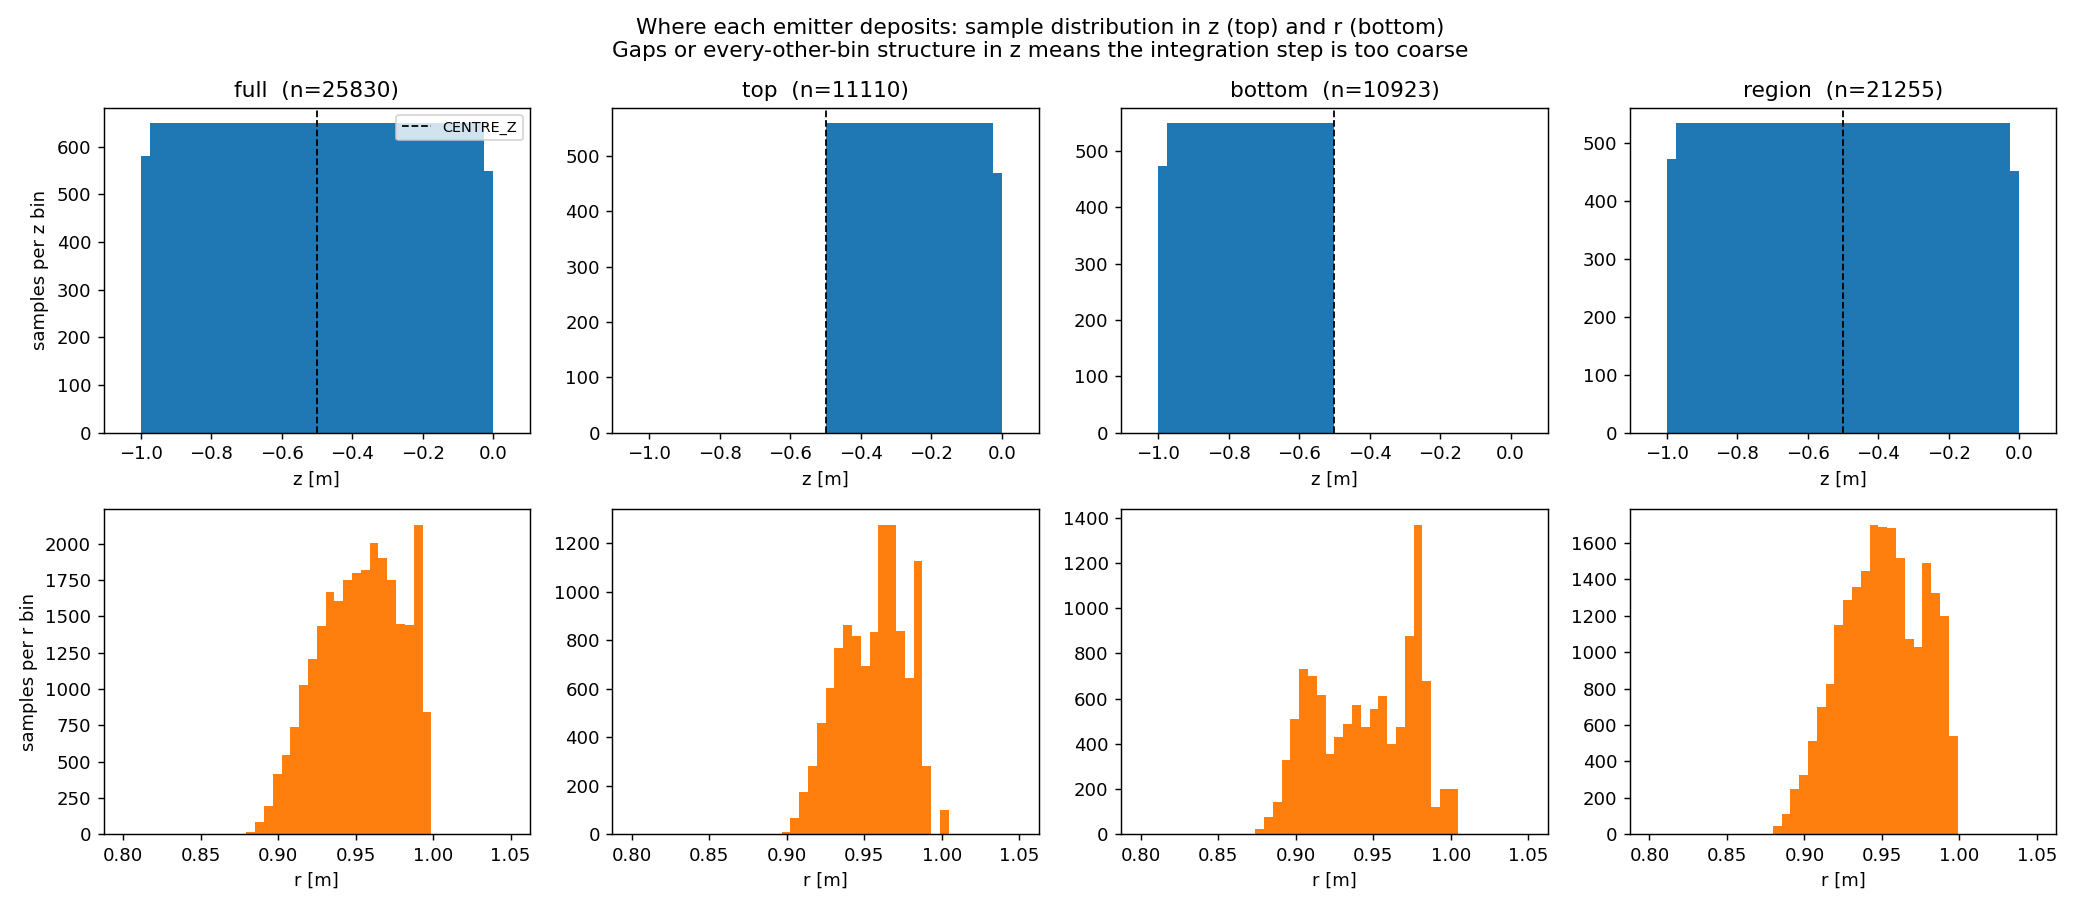
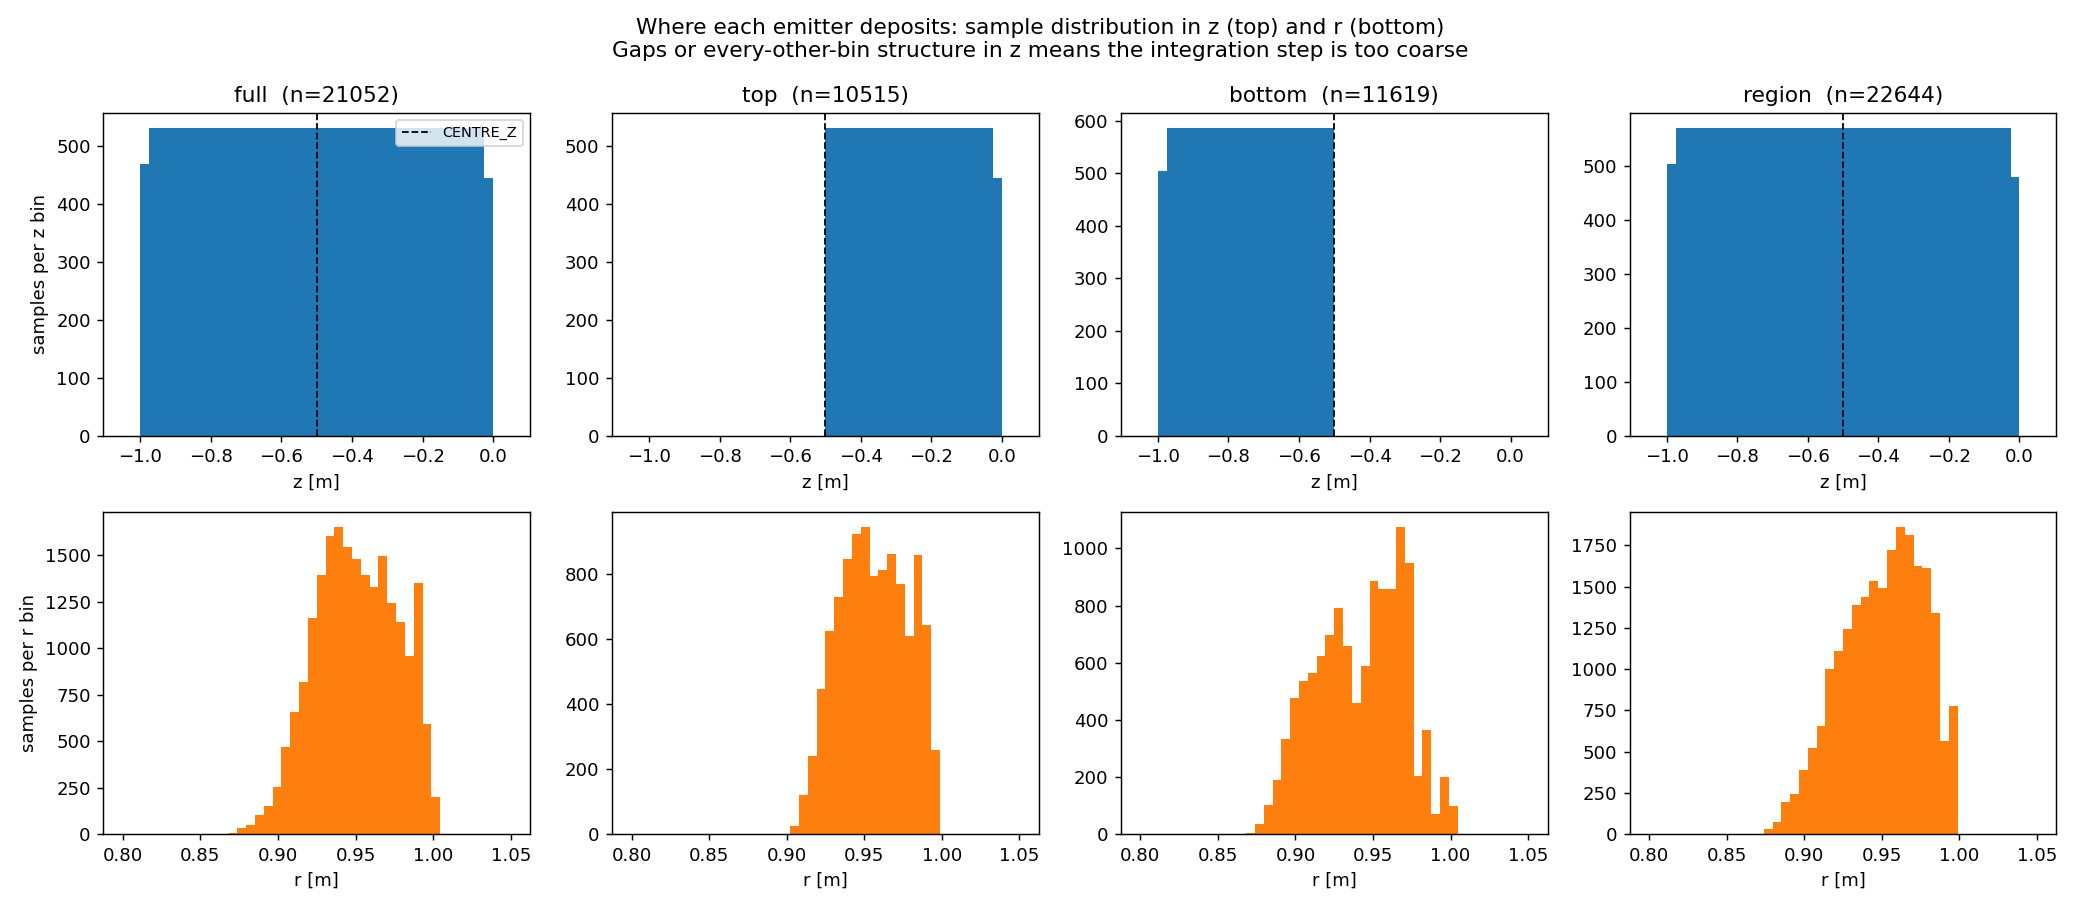
Some minor fixes

diff --git a/testingScripts/multiplePhiSolverTester.py b/testingScripts/multiplePhiSolverTester.py
@@ -1,3 +1,11 @@
+# multiplePhiSolverTester.py
+"""
+This was written to support the change in how radDists are created. Now
+they will have a list of observations for each channel, each with a corresponding
+observed_phi_loc list of the same length. This script just creates the normal radDist
+and splits each observation in half, for testing purposes.
+"""
+
 # solverTester.py
 """
 This program was written to test out the emis3D solver routine. The main point
@@ -15,6 +23,7 @@ import os
 import sys
 
 sys.path.append(os.path.abspath(os.path.join(os.path.dirname(__file__), "..")))
+
 import matplotlib.pyplot as plt
 import numpy as np
 import main.Util_radDist as Util_radDist
@@ -22,8 +31,8 @@ from main.Globals import *
 from main.Tokamak import Tokamak
 from main.Util import config_loader
 from raysect.core import Point2D
-import main.Emis3D as Emis3D
-from main.Util_emis3D import residual, scale_exp
+from main.Emis3D import Emis3D
+from main.Util_emis3D import residual
 
 evalTime = 2120.6
 
@@ -84,13 +93,10 @@ def pellet_initial_parameters(csp=False):
 # Step 1: Create a radDist
 # ------------------------------------------------------------------------------
 # ------------------------------------------------------------------------------
-
 tokamakName = "DIII-D"
 configFileName = "elongatedRing_config.yaml"  # "sqaureTube_config.yaml"  # "elongatedRing_config.yaml"  # "helical_config.yaml"  #
-sigma_z = 2.0
-sigma_R = 0.05
-rotationAngle = 0.0
-rzvalues = [2.055, 0.414]
+
+rzvalues = [2.029, 0.409]
 # --- Group the bolometers
 bolometerNames = [
     ["SX90PF_UP", "SX90PF_DOWN"],
@@ -124,16 +130,18 @@ rzArray = Util_radDist.callRZGridTokamak(
 # --- Update the configuration file
 rD = None
 if rzArray is not None:
-    rzArray[0] = [rzvalues[0], rzvalues[1]]
-    config["sigma_R"] = sigma_R
-    config["sigma_z"] = sigma_z
-    config["rotationAngle"] = rotationAngle
-    config["saveRunsDirectoryName"] = "solverTesting"
-    arg_list = [(val, config) for val in rzArray]
-    arg_list = arg_list[0]
+    # --- Update the configuration file
+    rzArray = np.array([rzvalues[0], rzvalues[1]])
 
-    # --- Decrease the number of sampling points used, to speed up the process
-    arg_list[1]["BOLOMETER_PROPS"] = {"pixelSamples": 100, "numProcessors": 1}
+    if "sigma_R_vals" in config:
+        config["sigma_R"] = config["sigma_R_vals"][0]
+    if "sigma_z_vals" in config:
+        config["sigma_z"] = config["sigma_z_vals"][0]
+    if "rotationAngles" in config:
+        config["rotationAngle"] = config["rotationAngles"][0]
+
+    config["saveRunsDirectoryName"] = "solverTesting"
+    arg_list = (rzArray, config)
 
     # --- Delete old radDist directory if it exists
     radDist_dir = os.path.join(
@@ -147,14 +155,44 @@ if rzArray is not None:
     # --- Create the radDist
     if config["distType"] == "Helical":
         rD = Util_radDist.radDist_Helical_parallel(arg_list, return_result=True)
+    elif config["distType"] == "HelicalRing":
+        rD = Util_radDist.radDist_HelicalRing_parallel(arg_list, return_result=True)
     elif config["distType"] == "ElongatedRing":
         rD = Util_radDist.radDist_ElongatedRing_parallel(arg_list, return_result=True)
     elif config["distType"] == "SquareTube":
         rD = Util_radDist.radDist_SquareTube_parallel(arg_list, return_result=True)
     else:
         raise RuntimeError(
-            "Please have 'elongatedRing', 'helical', or 'SqureTube' in the configFileName"
+            "Please have 'elongatedRing', 'helical', 'HelicalRing', or 'SqureTube' in the configFileName"
         )
+
+    # --- Split the observations in two
+    if rD is not None:
+        for bolo_ in rD.data["Radiance"]["elongatedRing"]:
+            original_list = rD.data["Radiance"]["elongatedRing"][bolo_]
+            halved_pairs = [
+                [sublist[0] / 2, sublist[0] / 2] for sublist in original_list
+            ]
+            rD.data["Radiance"]["elongatedRing"][bolo_] = halved_pairs
+
+        for bolo_ in rD.data["Radiance_error"]["elongatedRing"]:
+            original_list = rD.data["Radiance_error"]["elongatedRing"][bolo_]
+            halved_pairs = [
+                [sublist[0] / 2, sublist[0] / 2] for sublist in original_list
+            ]
+            rD.data["Radiance_error"]["elongatedRing"][bolo_] = halved_pairs
+
+    # --- Split the observed phi location in two
+    if rD is not None:
+        for bolo_ in rD.data["observed_phi_loc"]["elongatedRing"]:
+            original_list = rD.data["observed_phi_loc"]["elongatedRing"][bolo_]
+            pairs_list = [[sublist[0], sublist[0]] for sublist in original_list]
+            rD.data["observed_phi_loc"]["elongatedRing"][bolo_] = pairs_list
+
+    # --- Save the new radDist with a new z location
+    if rD is not None:
+        # rD.info["startZ"] = 0.42 # un-comment to save the split radDist with a different name
+        rD.saveRadDist()
 
 
 # ------------------------------------------------------------------------------
@@ -162,16 +200,17 @@ if rzArray is not None:
 # Step 2: Load the data in emis3D, create synthetic signal based off known parameters
 # ------------------------------------------------------------------------------
 # ------------------------------------------------------------------------------
-t = Emis3D.Emis3D(
-    tokamakName="DIII-D", runConfigName="solverTesting_runConfig.yaml", initialize=True
+t = Emis3D(
+    tokamakName="DIII-D",
+    runConfigName="solverTesting_runConfig.yaml",
+    initialize=True,
 )
+
 if t.info is not None:
     t.info["radDistDirectories"] = ["solverTesting"]
 
-
 # --- Going through t._perform_fits()
 t._prepare_fits(evalTime=evalTime, crossCalib=False)
-
 
 # --- Going through t._minimize_radDists()
 ii = 0
@@ -179,7 +218,6 @@ ii = 0
 data_dict = t.fitData[evalTime]
 synth_dict = t.fits[evalTime][ii]["synthetic_dict"]
 pars = t.fits[evalTime][ii]["parameters"]
-
 
 if t.info is not None:
     scale_def = t.info["scale_def"]
@@ -229,17 +267,15 @@ del t
 # ------------------------------------------------------------------------------
 res_manual = residual(pars, data_dict, synth_dict, scale_def=scale_def)
 
-
 # ------------------------------------------------------------------------------
 # ------------------------------------------------------------------------------
 # Step 4: Perform a minimization using the emis3D solver
 # ------------------------------------------------------------------------------
 # ------------------------------------------------------------------------------
-t2 = Emis3D.Emis3D(tokamakName="DIII-D", runConfigName="184407/184407_runConfig.yaml")
+t2 = Emis3D(tokamakName="DIII-D", runConfigName="184407/184407_runConfig.yaml")
 t2._load_radDists()
 t2._load_bolometer_data()
 t2._perform_fits(evalTime=float(evalTime))
-
 
 # ------------------------------------------------------------------------------
 # ------------------------------------------------------------------------------
@@ -253,7 +289,6 @@ if rD is not None and hasattr(rD, "tokamak") and hasattr(rD.tokamak, "bolometers
         bolo_tokamak.append(bolo.name)
 else:
     raise AttributeError("rD or rD.tokamak.bolometers is not properly initialized.")
-
 
 # --- Plot each individual bolometer
 if True:

diff --git a/main/Util_emis3D.py b/main/Util_emis3D.py
@@ -97,7 +97,7 @@ def scale_wrapper(
     ----------
     a             : Amplitude of the scaling function
     b             : Shape parameter used by most scaling functions
-    phi           : Toroidal locations of the bolometers (radians)
+    phi           : Toroidal location(s) of each channel (radians)
     mu            : Injection location (radians)
     scale_def     : One of 'exponential', 'linear', 'constant'
     emissionName  : Name of the emission distribution (e.g. 'clockwise')
@@ -434,7 +434,7 @@ def residual(
                 a = params[f"{boloNames[ii]}"]
                 b = 0.0
 
-            phi = np.array(synthetic_dict[emissionName]["scaleFactor"][ii])
+            # phi = np.array(synthetic_dict[emissionName]["scaleFactor"][ii])
 
             # --- Per-channel lists of toroidal observation segments. Each
             # channel holds one phi and one synthetic value per segment
@@ -502,10 +502,11 @@ def residual(
 
             # --- Ignore channels with non-positive observed values
             bad_indices = np.where(data_ <= 0)[0]
+            # --- Set the temp_ values equal to the bad data values so the residual is zero
             temp_[ii][bad_indices] = data_[bad_indices]
 
             # LMFIT minimizes the sum of squares, so we return the raw residual
-            numerator = data_ - temp_[ii]
+            numerator = np.abs(data_ - temp_[ii])
             res.extend(convert_arrays_to_list(numerator / data_error))
 
         # --- Soft constraint: tie paired clockwise / counterClock helical

diff --git a/testingScripts/emis3DTester.py b/testingScripts/emis3DTester.py
@@ -30,6 +30,7 @@ this should help with the fitting and ensure a continous TPF distribution.
 Another bug: clockwise rev1 is higher than clockwise rev0!!!
 
 """
+
 import os
 import sys
 
@@ -38,13 +39,12 @@ sys.path.append(os.path.abspath(os.path.join(os.path.dirname(__file__), "..")))
 import numpy as np
 from main.Emis3D import Emis3D
 
+evalTime = 2120.5  # 50.953  #
 
-evalTime = 50.953  # 2120.5
-
-# tokamakName = "DIII-D"
-tokamakName = "JET"
-# runConfigName = "184407/184407_runConfig.yaml"
-runConfigName = "95709/95709_runConfig.yaml"
+tokamakName = "DIII-D"
+# tokamakName = "JET"
+runConfigName = "184407/184407_runConfig.yaml"
+# runConfigName = "95709/95709_runConfig.yaml"
 verbose = True
 
 t = Emis3D(
@@ -55,10 +55,7 @@ t = Emis3D(
 )
 
 
-t._load_bestFits(path="/Users/plh/Documents/git/Emis3D/inputs/JET/runs/95709/95709_bestFits_50.953.dill")
-
-
-
+# t._load_bestFits(path="/Users/plh/Documents/git/Emis3D/inputs/JET/runs/95709/95709_bestFits_50.953.dill")
 
 
 # t._load_bestFits(

diff --git a/main/radDistFitting.py b/main/radDistFitting.py
@@ -82,8 +82,8 @@ class RadDistFitting:
             channels = self.data[units]["channelOrder"][bolo_]
 
             for emissionName in self.info["emissionNames"]:
-                scale_ = self.data["scaleFactor"][emissionName][bolo_]
-                map_scale = dict(zip(channels, scale_))
+                # scale_ = self.data["scaleFactor"][emissionName][bolo_]
+                # map_scale = dict(zip(channels, scale_))
 
                 data_ = self.data[units][emissionName][bolo_]
                 phi_ = [self._as_segment_list(v) for v in phi_loc[emissionName][bolo_]]

diff --git a/main/Emis3D.py b/main/Emis3D.py
@@ -607,6 +607,8 @@ class Emis3D:
         in_ = {}
         if radDist_.info is not None:
             in_ = radDist_.info
+        else:
+            raise AttributeError("Self.info should not be none!")
 
         synthetic_dict = {
             "info": in_,
